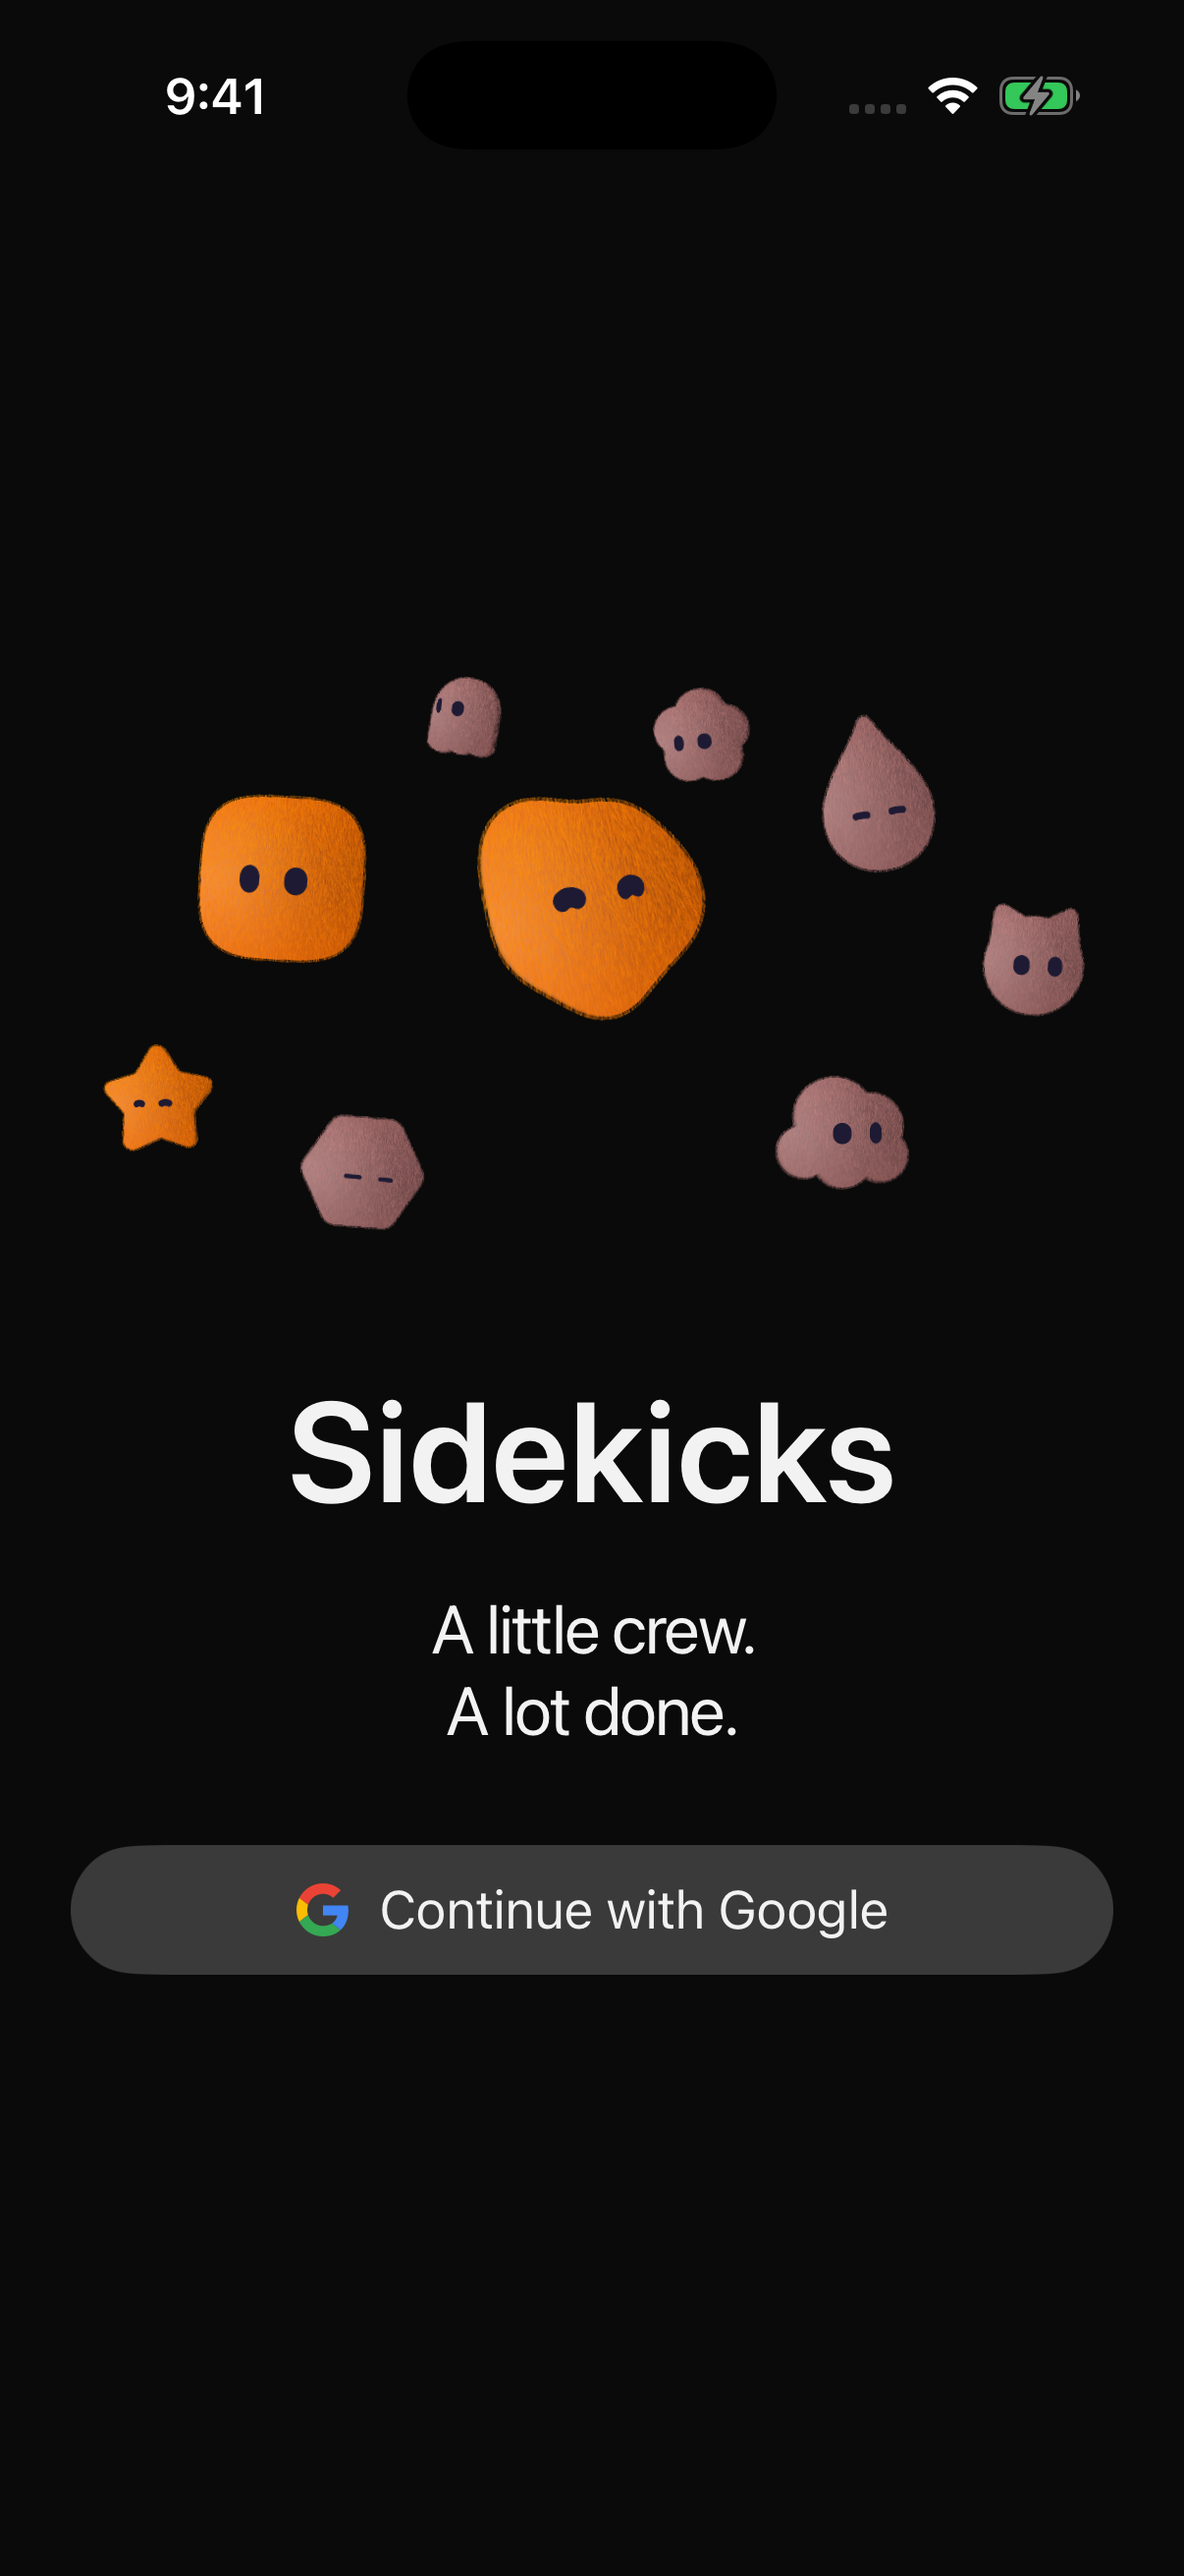
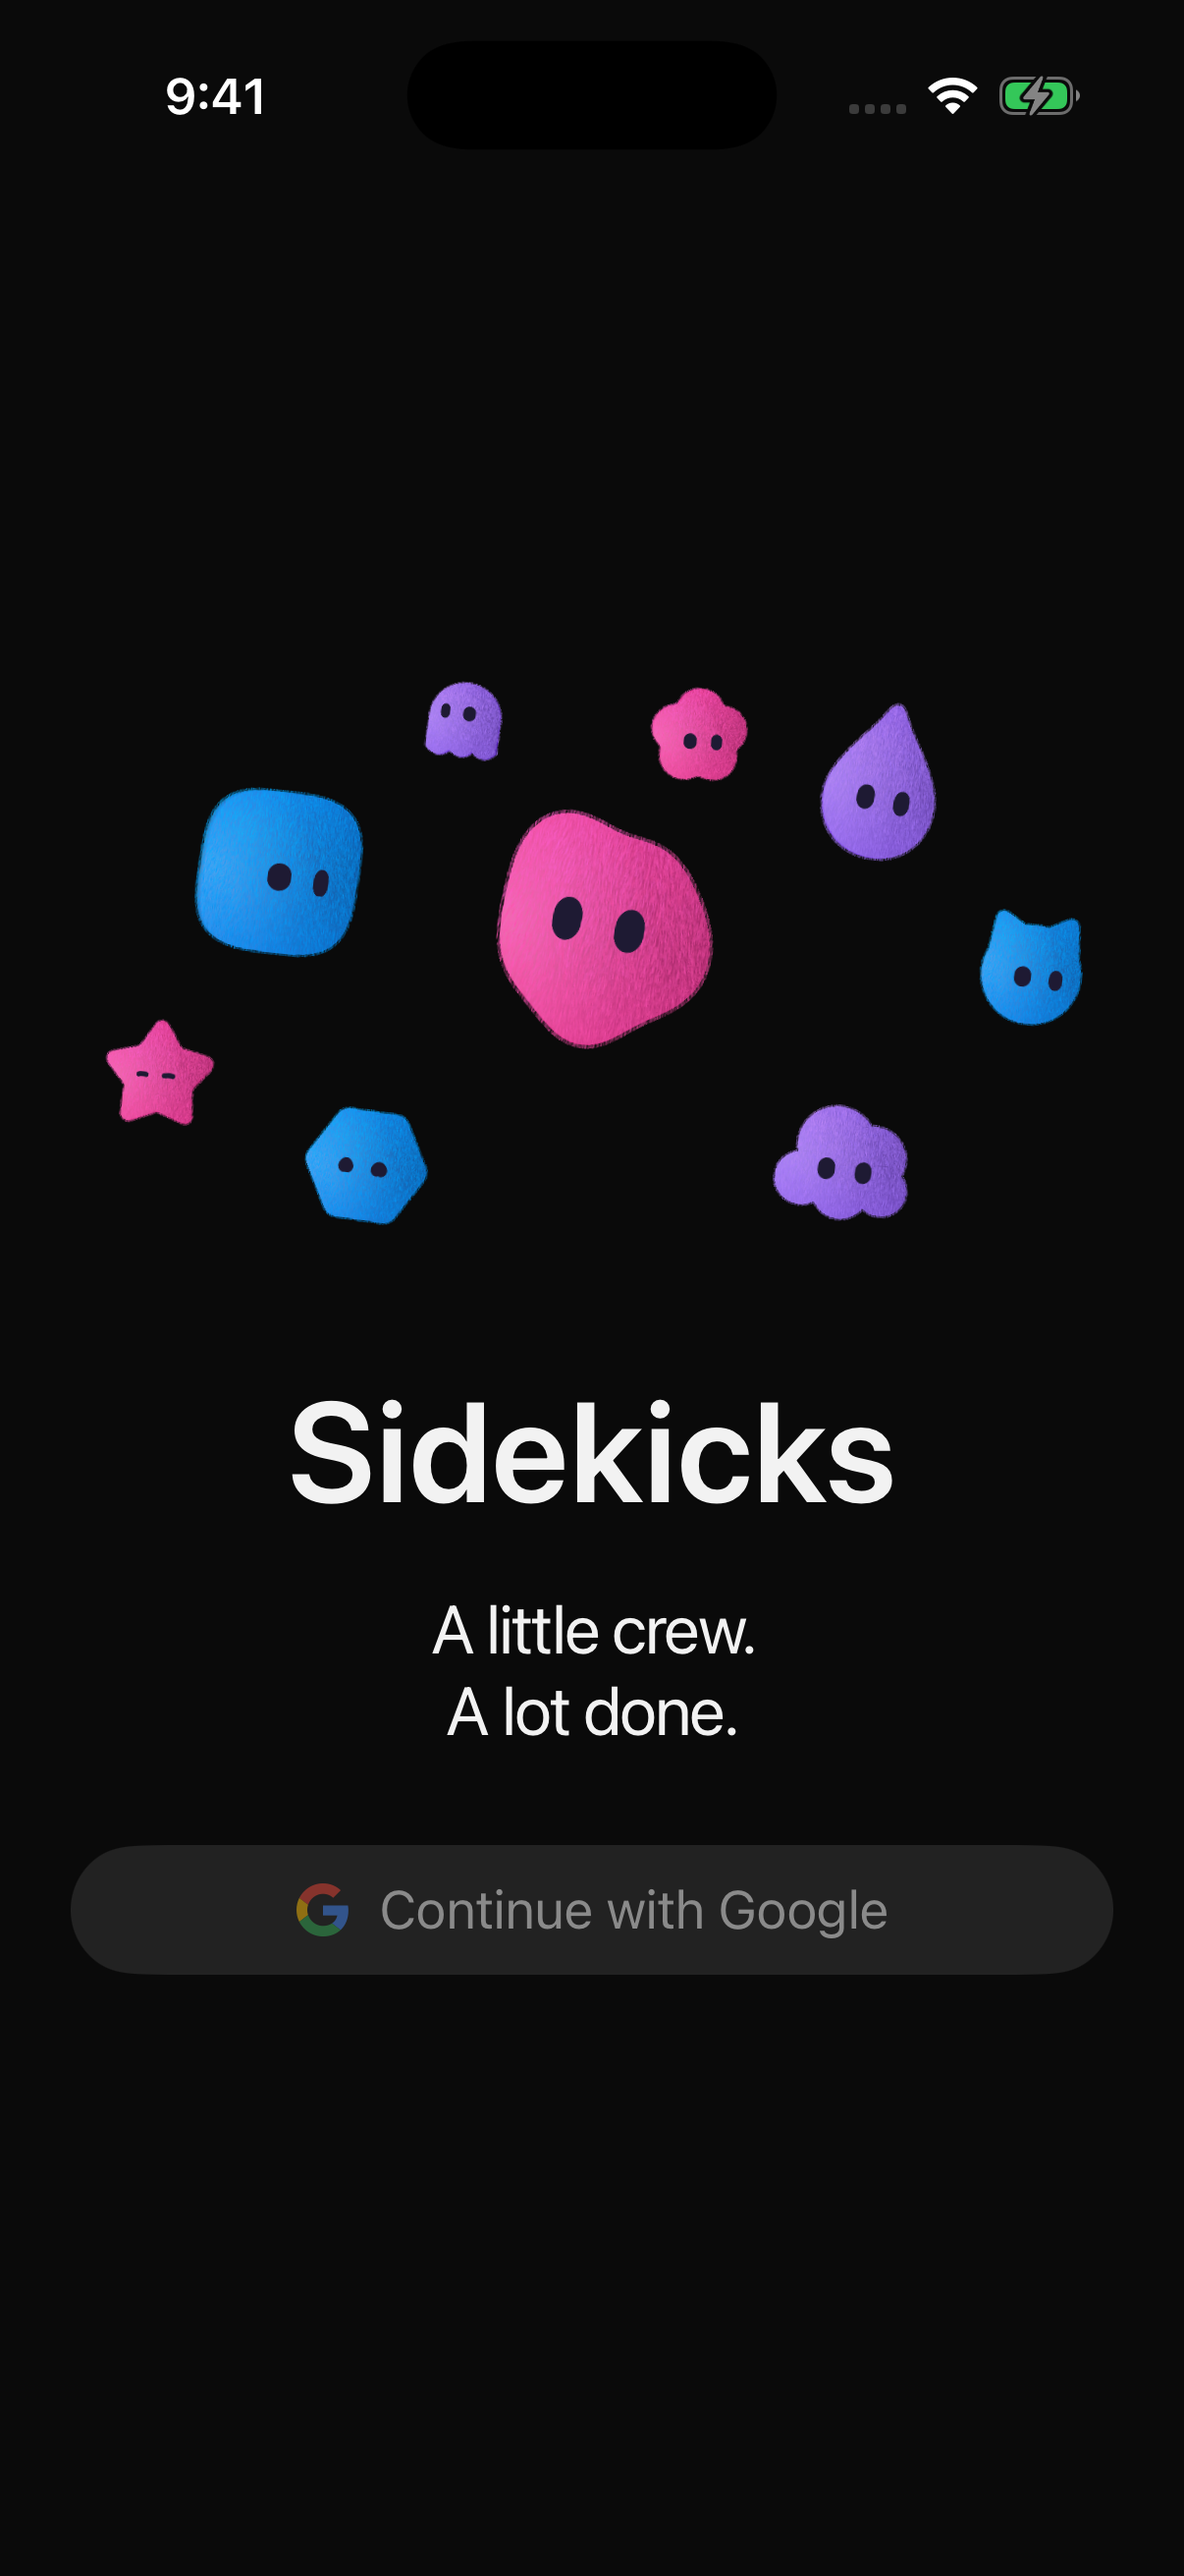
Fix Sidekicks welcome colors and add native mobile feature gallery

diff --git a/apps/macos/Views/ChatWindow.swift b/apps/macos/Views/ChatWindow.swift
@@ -203,15 +203,15 @@ private struct WelcomeCrew: View {
     @Environment(\.accessibilityReduceMotion) private var reduceMotion
 
     private let members: [(shape: String, color: String, size: CGFloat, x: CGFloat, y: CGFloat, mood: CharacterAvatar.Mood)] = [
-        ("blob", "orange", 92, 0, 0, .working),
-        ("squircle", "orange", 64, -104, -34, .idle),
-        ("teardrop", "gray", 58, 100, -46, .working),
-        ("hex", "gray", 48, -76, 64, .idle),
-        ("cloud", "gray", 52, 84, 58, .needsInput),
-        ("star", "orange", 44, -150, 40, .idle),
-        ("cat", "gray", 46, 148, 0, .idle),
-        ("flower", "gray", 38, 38, -85, .idle),
-        ("ghost", "gray", 36, -40, -84, .idle),
+        ("blob", "magenta", 92, 0, 0, .working),
+        ("squircle", "blue", 64, -104, -34, .idle),
+        ("teardrop", "violet", 58, 100, -46, .working),
+        ("hex", "blue", 48, -76, 64, .idle),
+        ("cloud", "violet", 52, 84, 58, .needsInput),
+        ("star", "magenta", 44, -150, 40, .idle),
+        ("cat", "blue", 46, 148, 0, .idle),
+        ("flower", "magenta", 38, 38, -85, .idle),
+        ("ghost", "violet", 36, -40, -84, .idle),
     ]
 
     var body: some View {

diff --git a/apps/ios/Views/WelcomeView.swift b/apps/ios/Views/WelcomeView.swift
@@ -90,15 +90,15 @@ private struct Crew: View {
     @Environment(\.accessibilityReduceMotion) private var reduceMotion
 
     private let members: [(shape: String, color: String, size: CGFloat, x: CGFloat, y: CGFloat, mood: CharacterAvatar.Mood)] = [
-        ("blob", "orange", 92, 0, 0, .working),
-        ("squircle", "orange", 64, -104, -34, .idle),
-        ("teardrop", "gray", 58, 100, -46, .working),
-        ("hex", "gray", 48, -76, 64, .idle),
-        ("cloud", "gray", 52, 84, 58, .needsInput),
-        ("star", "orange", 44, -150, 40, .idle),
-        ("cat", "gray", 46, 148, 0, .idle),
-        ("flower", "gray", 38, 38, -85, .idle),
-        ("ghost", "gray", 36, -40, -84, .idle),
+        ("blob", "magenta", 92, 0, 0, .working),
+        ("squircle", "blue", 64, -104, -34, .idle),
+        ("teardrop", "violet", 58, 100, -46, .working),
+        ("hex", "blue", 48, -76, 64, .idle),
+        ("cloud", "violet", 52, 84, 58, .needsInput),
+        ("star", "magenta", 44, -150, 40, .idle),
+        ("cat", "blue", 46, 148, 0, .idle),
+        ("flower", "magenta", 38, 38, -85, .idle),
+        ("ghost", "violet", 36, -40, -84, .idle),
     ]
 
     var body: some View {

diff --git a/docs/guides/mobile-feature-tour.md b/docs/guides/mobile-feature-tour.md
@@ -1,0 +1,26 @@
+# Sidekicks on iPhone
+
+The [README gallery](../../README.md#iphone-app) shows native screens captured on October 5, 2026, with isolated demo data. The welcome crew uses the same supported magenta, blue and violet colors as Mac.
+
+| Feature | Where to find it / details |
+|---|---|
+| Agent roster and unread conversations | Sidekicks tab; roster screenshot |
+| Chat, permission approvals and task updates | Open a sidekick; chat screenshot |
+| Names, avatars, standing instructions, project and provider | Agent settings; customization screenshot |
+| Group conversations, mentions and reply threads | [Groups and threads](../features/groups-and-threads.md); group screenshot |
+| Scheduled and webhook routines | [Routines](../features/routines.md); disabled demo routine screenshot |
+| Providers, skills and MCP connectors | [Marketplace](../features/marketplace.md), [credentials](../features/connector-credentials.md), [Granola](granola.md); provider screenshot |
+| Context, skills and memory | [Context and memory](../features/context-and-memory.md) |
+| Agent collaboration | [Bot collaboration](../features/bot-collaboration.md) |
+| Voice | [Voice calls](../features/voice-call.md) |
+| Images and file attachments | [Attachments](../features/file-attachments.md); chat composer |
+| Remote screen | [Remote screen](../features/remote-screen.md); computer button in chat |
+| Provider usage and sidekick widgets | [Widgets](../design/mobile-widgets.md); native sample preview screenshot |
+| Lock Screen and Dynamic Island progress | [Live Activities](../design/push-and-live-activity.md); native sample preview screenshot |
+| Push notifications | [Push delivery](../design/push-and-live-activity.md) |
+| Cloud agents while the Mac is closed | [Cloud Workspace](cloud-workspace.md); setup screenshot |
+| Account sign-in, pairing and sign-out | [Accounts](accounts-and-ssh.md); welcome screenshot |
+
+These are source features, not a claim that every provider or service was exercised. The demo messages were seeded, the approval was not executed, and the routine is disabled. Widget and Live Activity screens show built-in sample previews. Connector access requires account sign-in; the marketplace screenshot shows that requirement. Cloud setup is not proof of a provisioned workspace. No account credentials or customer content were copied.
+
+The capture-only navigation and demo pairing were confined to a temporary build, leaving production authentication intact. Installed TestFlight build 30 does not contain these later welcome-color changes; a new build is required to see them on a physical phone.

diff --git a/README.md b/README.md
@@ -45,6 +45,17 @@ provider support and signed-in workflows must be verified for each environment.
 *Actual Sidekicks iPhone app captured in an isolated simulator. No account data or
 meeting notes are included.*
 
+Browse the [mobile feature tour](docs/guides/mobile-feature-tour.md) for the full feature inventory.
+These native screens use isolated demo data; messages and approvals are samples.
+
+| Your crew | Chat and approvals | Customize an agent |
+|---|---|---|
+| <img src="docs/screenshots/sidekicks-mobile-roster.png" width="240" alt="Agent roster"> | <img src="docs/screenshots/sidekicks-mobile-chat.png" width="240" alt="Chat and pending approval"> | <img src="docs/screenshots/sidekicks-mobile-agent.png" width="240" alt="Agent settings"> |
+| Group conversations | Scheduled routines | Provider marketplace |
+| <img src="docs/screenshots/sidekicks-mobile-group.png" width="240" alt="Group chat"> | <img src="docs/screenshots/sidekicks-mobile-routines.png" width="240" alt="Disabled demo routine"> | <img src="docs/screenshots/sidekicks-mobile-marketplace.png" width="240" alt="Providers and connector sign-in requirement"> |
+| Widgets | Live Activities | Cloud setup |
+| <img src="docs/screenshots/sidekicks-mobile-widgets.png" width="240" alt="Usage widget preview"> | <img src="docs/screenshots/sidekicks-mobile-activities.png" width="240" alt="Live Activity preview"> | <img src="docs/screenshots/sidekicks-mobile-cloud.png" width="240" alt="Cloud Workspace setup"> |
+
 The iPhone beta is **invite-only through TestFlight**. Build 2.4.0 (30) was uploaded;
 processing and pilot distribution were not confirmed during documentation review.
 Later source changes, including Granola and the sign-out fix, are not in build 30.

diff --git a/docs/screenshots/README.md b/docs/screenshots/README.md
@@ -4,6 +4,8 @@
 - `sidekicks-web.png`: screenshot of our local Sidekicks website, captured October 5, 2026. Its product preview is illustrative.
 - `sidekicks-iphone.png`: actual native iPhone welcome screen, captured from an isolated simulator on October 5, 2026.
 
+The nine `sidekicks-mobile-*.png` images are native feature screens from an isolated demo host and simulator. See the [feature tour](../guides/mobile-feature-tour.md) for their scope and setup requirements. Messages and approvals were seeded; the routine is disabled. Widget and Live Activity previews use sample data. Capture-only navigation was confined to a temporary build.
+
 No authenticated account, customer notes, or upstream launch video is used in the
 Sidekicks README. Older `codync-macos-home.jpg` and `launch-film.jpg` are legacy
 upstream assets retained for historical references; they are not Sidekicks screenshots.

diff --git a/docs/README.md b/docs/README.md
@@ -9,6 +9,7 @@ Source review, a passing build, local integration tests and production acceptanc
 |---|---|
 | Set up a mobile Cloud Workspace | [Cloud Workspace](guides/cloud-workspace.md) |
 | Connect Granola meeting notes | [Granola](guides/granola.md) |
+| Explore the iPhone features | [Mobile feature tour](guides/mobile-feature-tour.md) |
 | Review our screenshots | [Screenshot notes](screenshots/README.md) |
 | Find a module or decide where a file belongs | [File structure](architecture/file-structure.md) |
 | Understand clients, host, cloud and data ownership | [Architecture](architecture/overview.md) |

diff --git a/docs/guides/sidekicks-development.md b/docs/guides/sidekicks-development.md
@@ -186,3 +186,8 @@ shared Apple account model, including during session restoration. The Mac's
 explicit local-use choice is no longer persisted as completed authentication.
 Mobile already routes signed-out users to Welcome. Linux/TUI use host-local
 execution and have no Clerk account welcome gate, so their UI is unaffected.
+
+Welcome crew colors now use the existing magenta, blue, and violet palette on
+iPhone and Mac, matching Sidekicks branding. Linux and TUI do not render this
+Apple account welcome crew; the shared avatar palette and agent color choices
+remain available on their existing screens.
